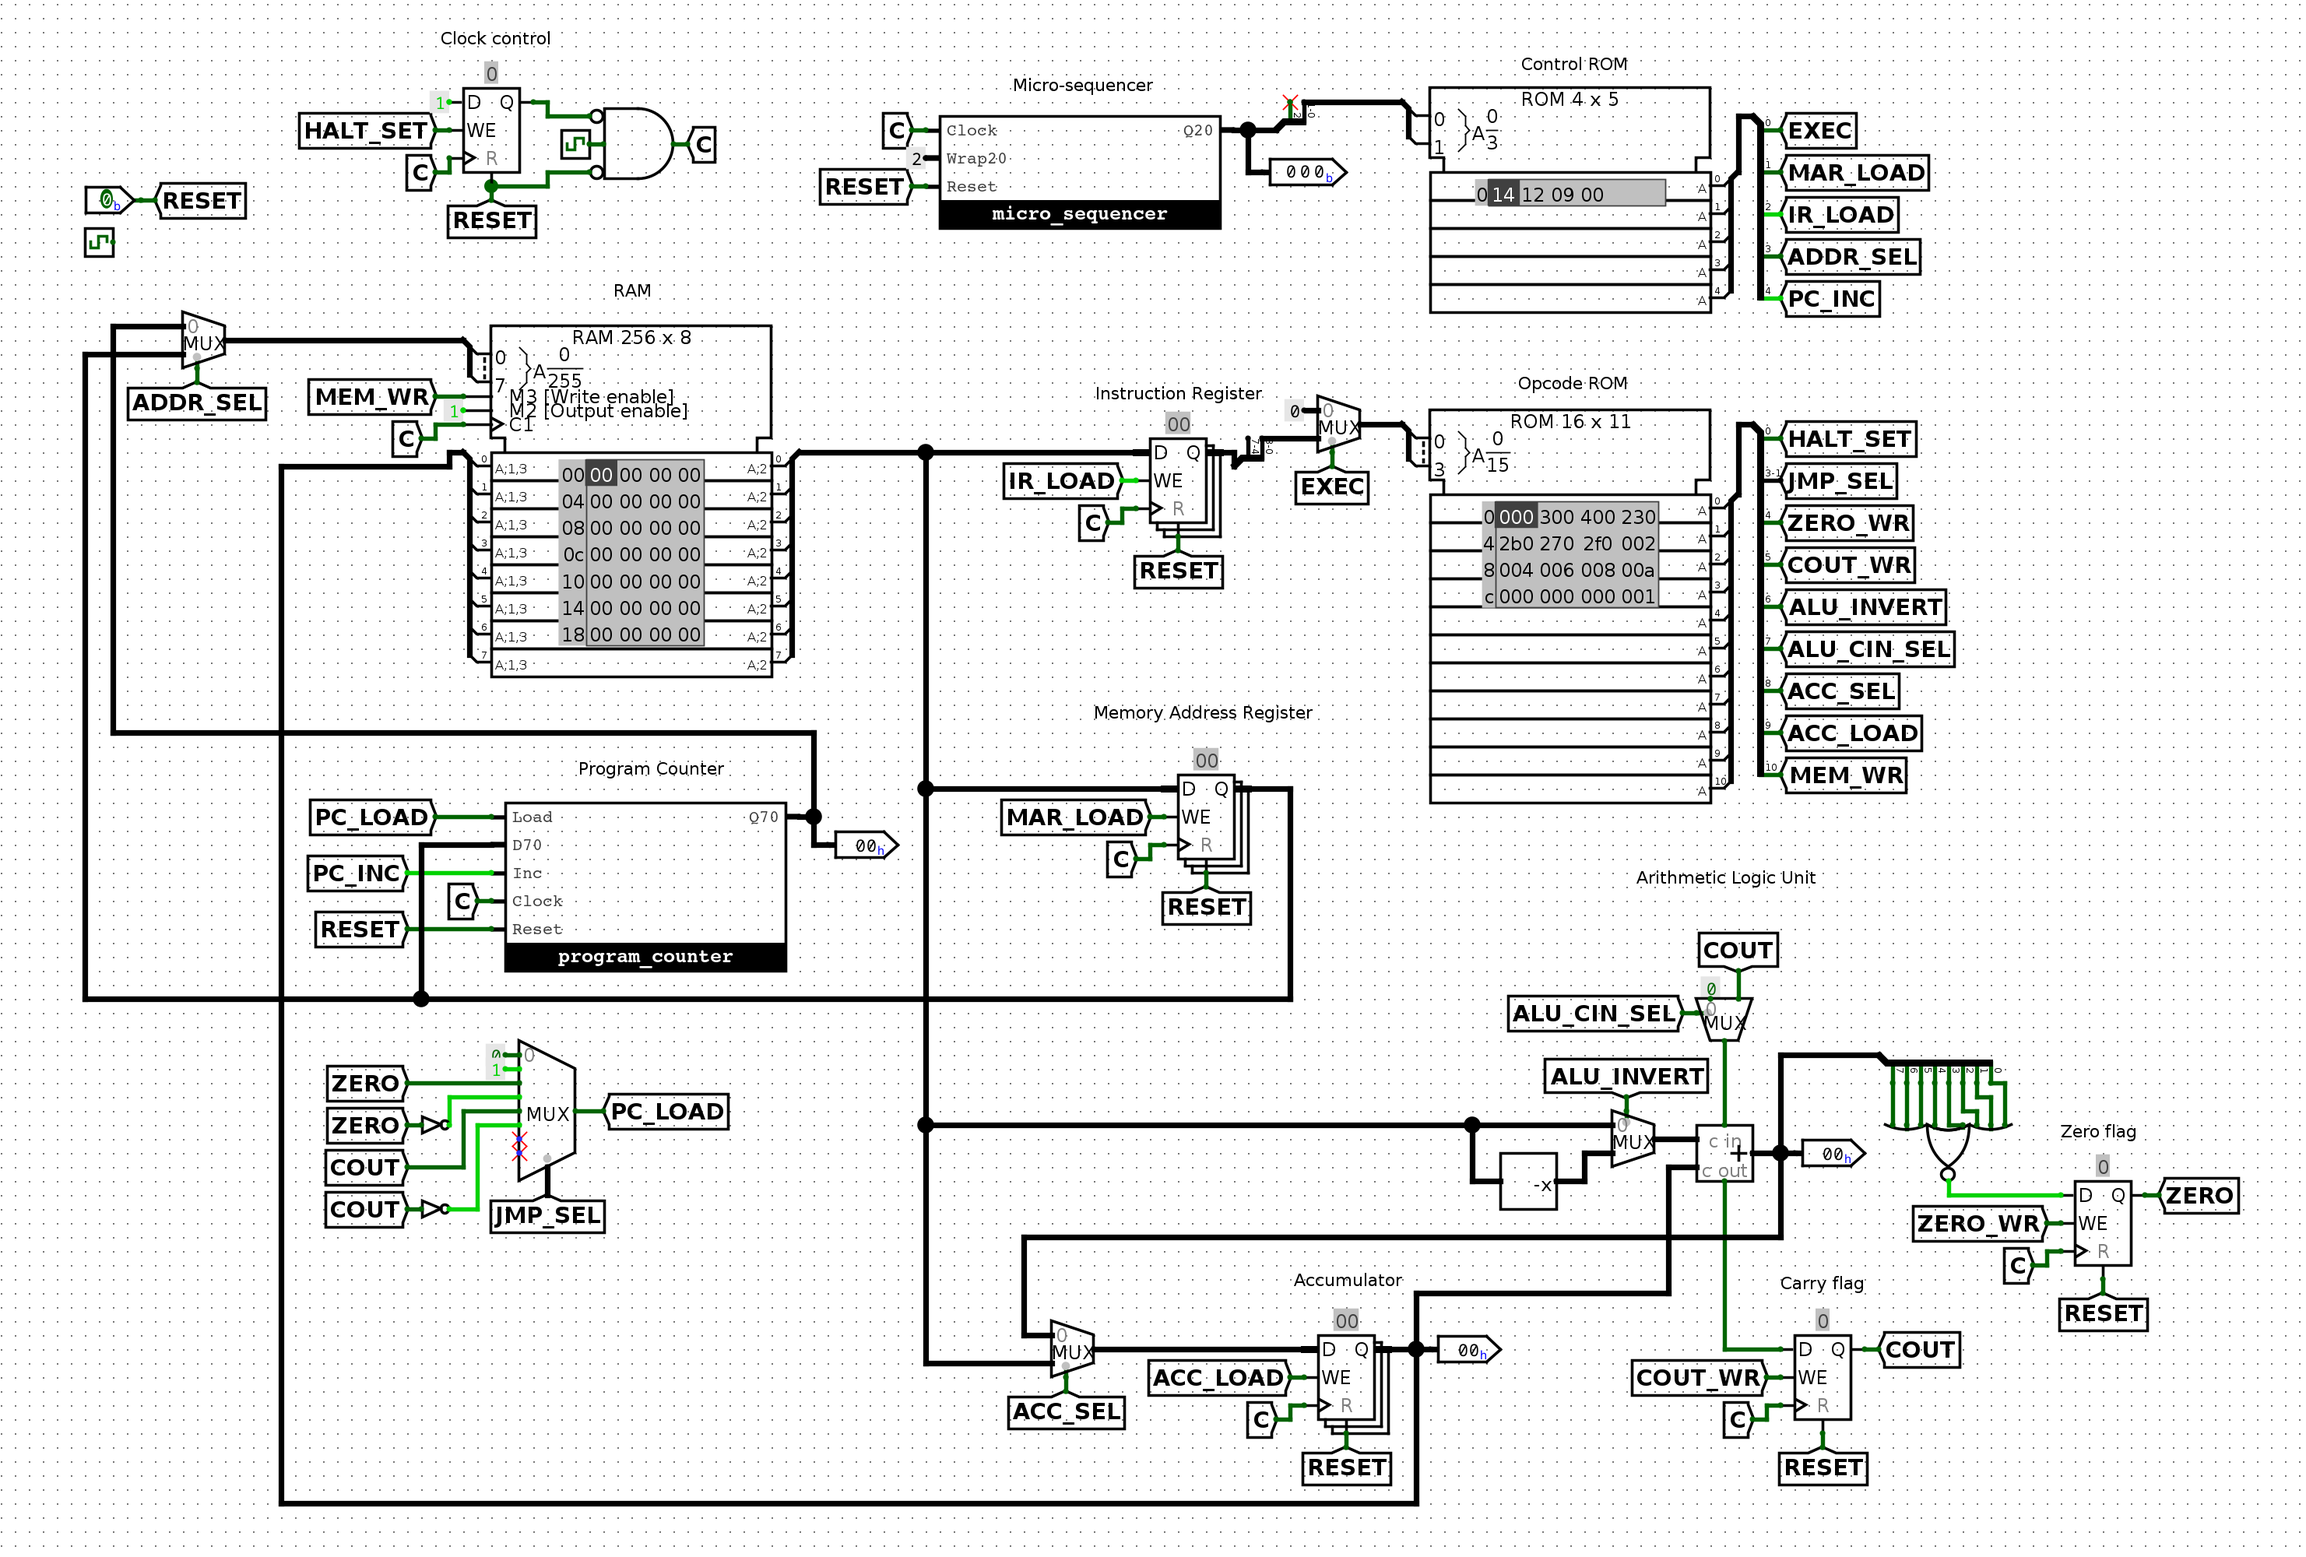
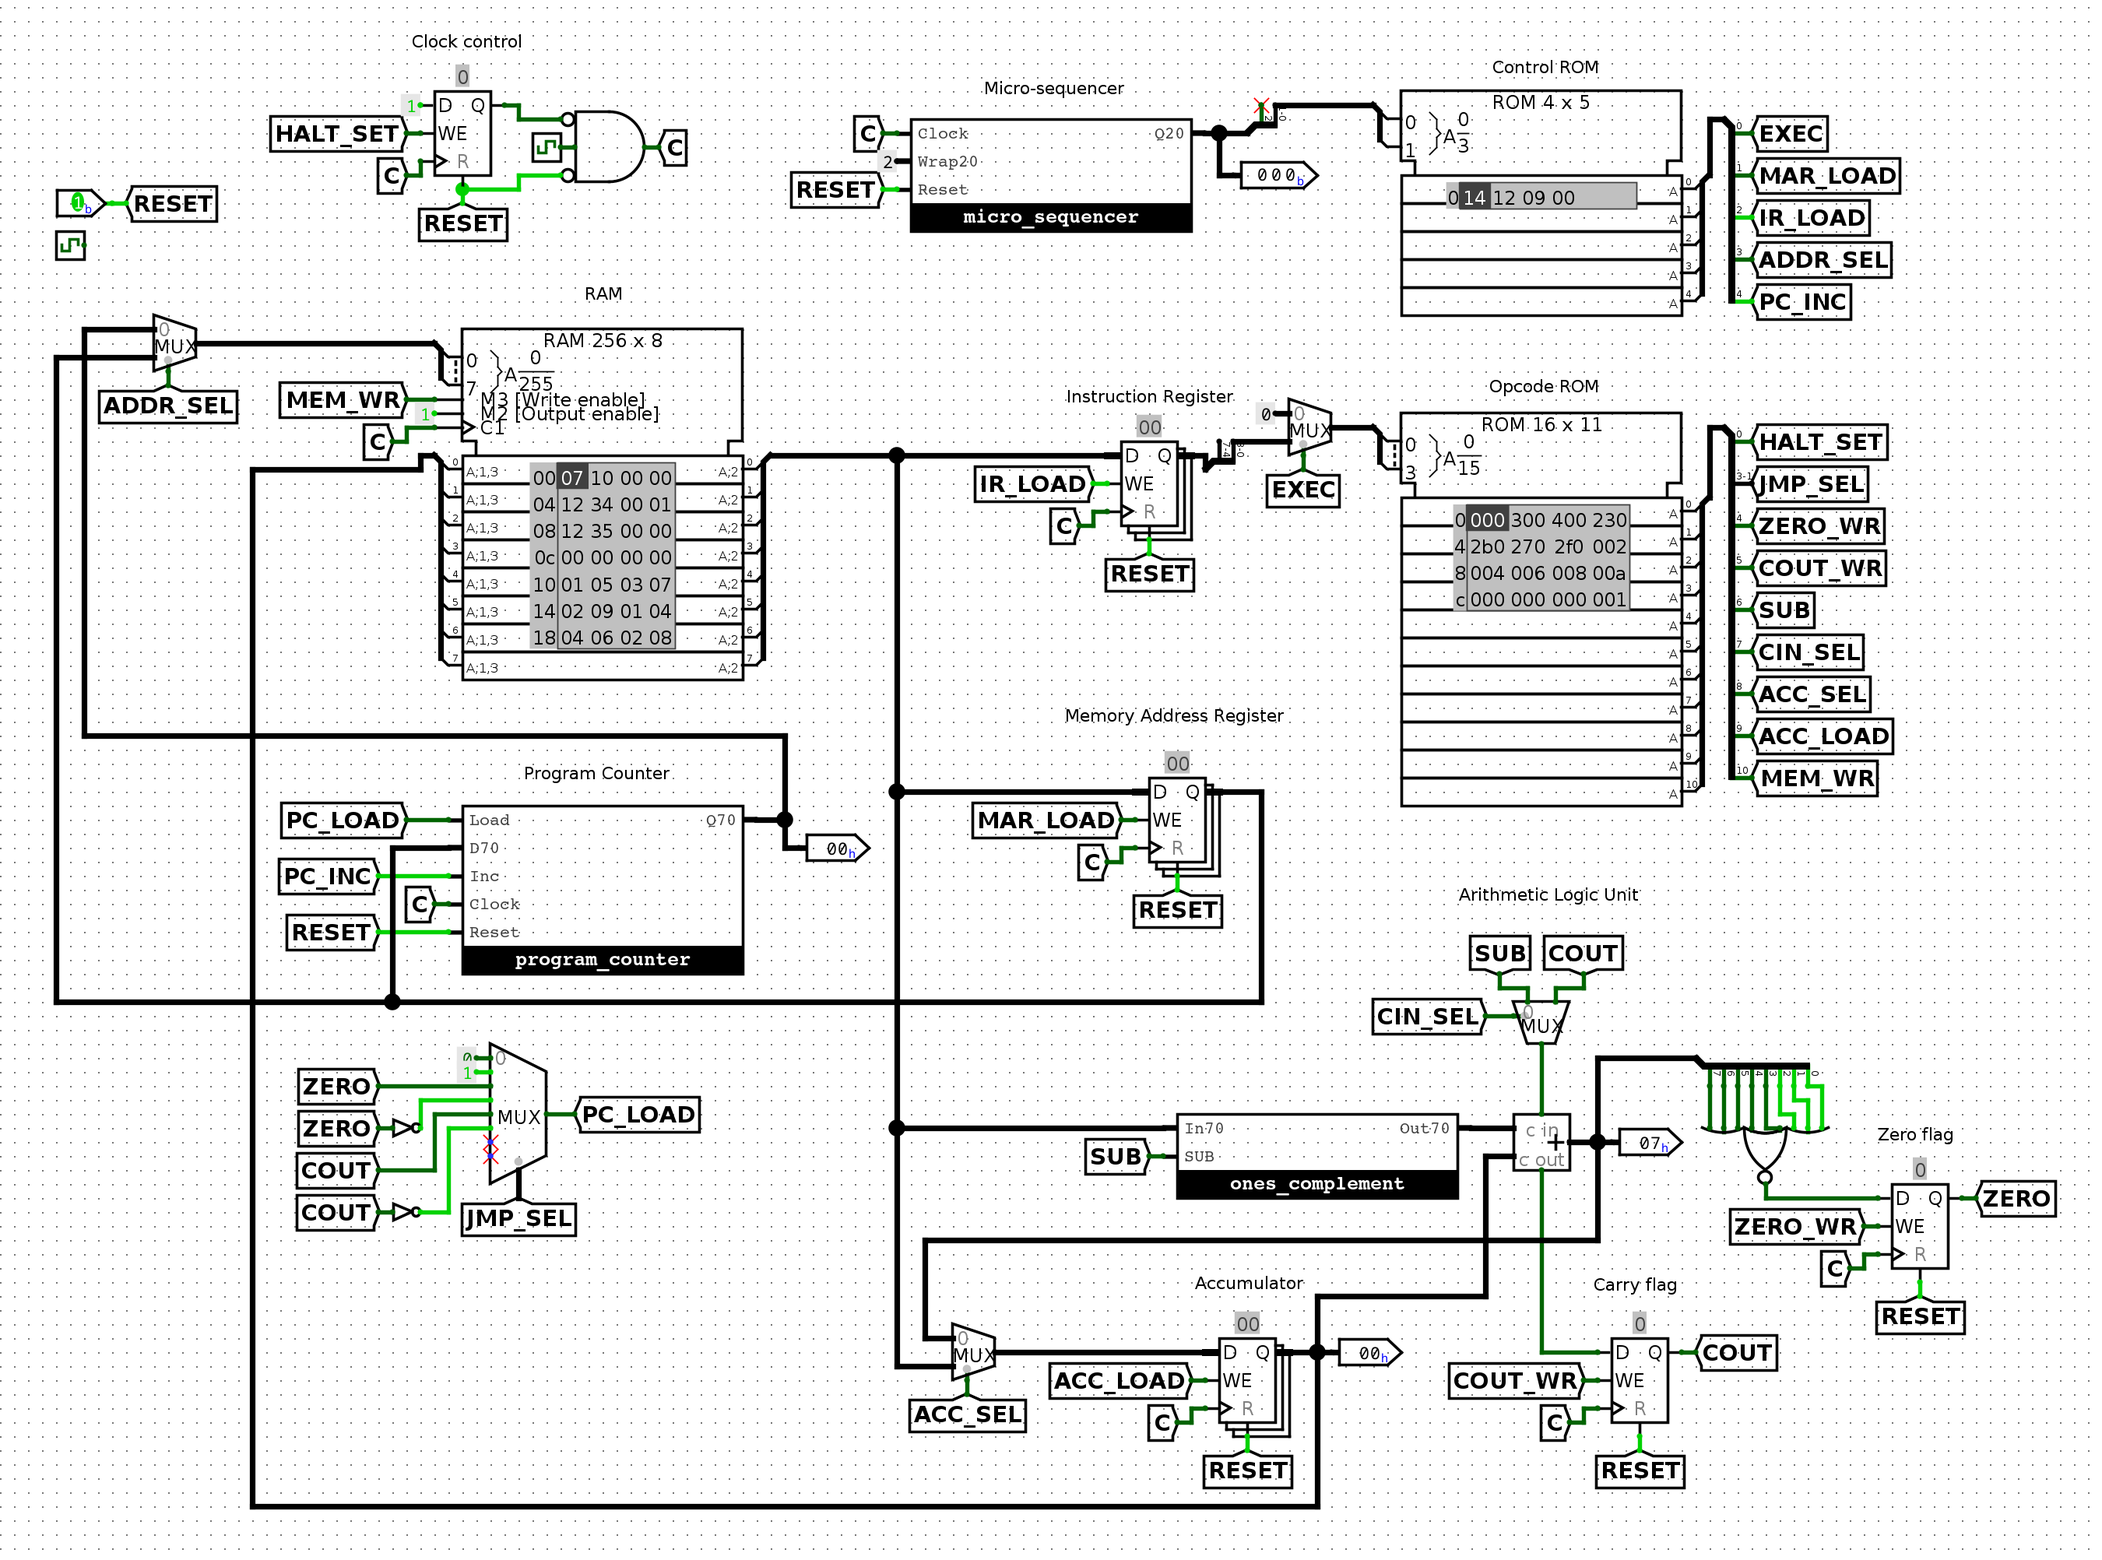
updated issue with the subtract with borrow

Changed region(s): [[0.0, 0.0, 0.9956, 0.961]]

diff --git a/README.md b/README.md
@@ -100,17 +100,17 @@ Its address input is selected as follows:
 
 The output is an 11-bit word, with the following assignments:
 
-| Bit(s) | Signal        | Description                                                   |
-| ------ | ------------- | ------------------------------------------------------------- |
-| 10     | `MEM_WR`      | Enables writing to RAM.                                       |
-| 9      | `ACC_LOAD`    | Enables loading a value into the accumulator.                 |
-| 8      | `ACC_SEL`     | Selects accumulator input: `0` = ALU, `1` = RAM.              |
-| 7      | `ALU_CIN_SEL` | Selects ALU carry-in: `0` = constant zero, `1` = carry latch. |
-| 6      | `ALU_INVERT`  | Selects the two's complement of the RAM operand for the ALU.  |
-| 5      | `COUT_WR`     | Enables writing to the carry latch.                           |
-| 4      | `ZERO_WR`     | Enables writing to the zero latch.                            |
-| 3–1    | `JMP_SEL`     | Selects the jump condition.                                   |
-| 0      | `HALT_SET`    | Blocks clock propagation to the CPU.                          |
+| Bit(s) | Signal     | Description                                           |
+| ------ | ---------- | ----------------------------------------------------- |
+| 10     | `MEM_WR`   | Enables writing to RAM.                               |
+| 9      | `ACC_LOAD` | Enables loading a value into the accumulator.         |
+| 8      | `ACC_SEL`  | Selects accumulator input: `0` = ALU, `1` = RAM.      |
+| 7      | `CIN_SEL`  | Selects ALU carry-in: `0` = `SUB`, `1` = carry latch. |
+| 6      | `SUB`      | Selects the one's complement of the RAM operand.      |
+| 5      | `COUT_WR`  | Enables writing to the carry latch.                   |
+| 4      | `ZERO_WR`  | Enables writing to the zero latch.                    |
+| 3–1    | `JMP_SEL`  | Selects the jump condition.                           |
+| 0      | `HALT_SET` | Blocks clock propagation to the CPU.                  |
 
 ### Jump selection
 
@@ -133,20 +133,20 @@ The jump selector combines instruction decoding with the CPU's internal status f
 
 Each instruction selects a particular combination of control signals.
 
-| Opcode | Instruction | Active control signals                                        |
-| ------ | ----------- | ------------------------------------------------------------- |
-| `01`   | LOAD        | `ACC_LOAD`, `ACC_SEL`                                         |
-| `02`   | STORE       | `MEM_WR`                                                      |
-| `03`   | ADD         | `ACC_LOAD`, `COUT_WR`, `ZERO_WR`                              |
-| `04`   | ADC         | `ACC_LOAD`, `ALU_CIN_SEL`, `COUT_WR`, `ZERO_WR`               |
-| `05`   | SUB         | `ACC_LOAD`, `ALU_INVERT`, `COUT_WR`, `ZERO_WR`                |
-| `06`   | SBC         | `ACC_LOAD`, `ALU_CIN_SEL`, `ALU_INVERT`, `COUT_WR`, `ZERO_WR` |
-| `07`   | JMP         | `JMP_SEL = 001`                                               |
-| `08`   | JZ          | `JMP_SEL = 010`                                               |
-| `09`   | JNZ         | `JMP_SEL = 011`                                               |
-| `0A`   | JC          | `JMP_SEL = 100`                                               |
-| `0B`   | JNC         | `JMP_SEL = 101`                                               |
-| `0F`   | HALT        | `HALT_SET`                                                    |
+| Opcode | Instruction | Active control signals                             |
+| ------ | ----------- | -------------------------------------------------- |
+| `01`   | LOAD        | `ACC_LOAD`, `ACC_SEL`                              |
+| `02`   | STORE       | `MEM_WR`                                           |
+| `03`   | ADD         | `ACC_LOAD`, `COUT_WR`, `ZERO_WR`                   |
+| `04`   | ADC         | `ACC_LOAD`, `CIN_SEL`, `COUT_WR`, `ZERO_WR`        |
+| `05`   | SUB         | `ACC_LOAD`, `SUB`, `COUT_WR`, `ZERO_WR`            |
+| `06`   | SBC         | `ACC_LOAD`, `CIN_SEL`, `SUB`, `COUT_WR`, `ZERO_WR` |
+| `07`   | JMP         | `JMP_SEL = 001`                                    |
+| `08`   | JZ          | `JMP_SEL = 010`                                    |
+| `09`   | JNZ         | `JMP_SEL = 011`                                    |
+| `0A`   | JC          | `JMP_SEL = 100`                                    |
+| `0B`   | JNC         | `JMP_SEL = 101`                                    |
+| `0F`   | HALT        | `HALT_SET`                                         |
 
 ### Control ROM contents
 
